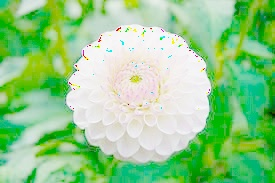
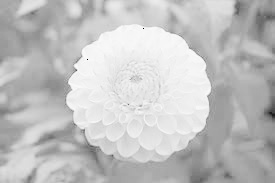
Added Morphological operation from scratch - CV

diff --git a/Computer-vision/08 - Morphological_Transformation/02-Morphological_Operation_From_Scratch.py b/Computer-vision/08 - Morphological_Transformation/02-Morphological_Operation_From_Scratch.py
@@ -1,0 +1,196 @@
+# import package
+import cv2
+import numpy as np
+import matplotlib.pyplot as plt
+ 
+
+# Erosion operation
+'''
+Condition
+1. If complete match then output = 1
+2. if partial match then output = 0
+3. if complete unmatch then output = 0
+'''
+
+def erosion(image,kernel):
+    row = image.shape[0] + kernel.shape[0] - 1
+    column = image.shape[1] + kernel.shape[0] - 1
+
+    erosion_image = np.zeros((row,column),dtype=np.uint8)
+    
+    for i in range(image.shape[0]):
+        for j in range(image.shape[1]):
+            erosion_image[i + np.int((kernel.shape[0]-1)/2),j + np.int(( kernel.shape[1]-1) / 2)] = image[i,j]
+
+    for i in range(image.shape[0]):
+        for j in range(image.shape[1]):
+
+            # Extract each patch from image     
+            patch = erosion_image[i : i + kernel.shape[0],j : j + kernel.shape[1]]
+
+            # element wise comparision
+            result = np.equal(patch,kernel)
+
+            # if all true then pixel value becomes 1 else it will 0
+            final = np.all(result==True)
+
+            if final:
+                image[i,j]=1
+            else:
+                image[i,j]=0
+
+    return image
+            
+# Dilation
+'''
+Condition
+1. If complete match then output = 1
+2. if partial match then output = 1
+3. if complete unmatch then output = 0
+'''
+
+def dilation(image,kernel):
+    row = image.shape[0] + kernel.shape[0] - 1
+    column = image.shape[1] + kernel.shape[0] - 1
+
+    dilation_image = np.zeros((row,column),dtype=np.uint8)
+    
+    for i in range(image.shape[0]):
+        for j in range(image.shape[1]):
+            dilation_image[i + np.int((kernel.shape[0]-1)/2),j + np.int(( kernel.shape[1]-1) / 2)] = image[i,j]
+
+    for i in range(image.shape[0]):
+        for j in range(image.shape[1]):
+
+            # Extract each patch from image     
+            patch = dilation_image[i : i + kernel.shape[0],j : j + kernel.shape[1]]
+
+            # element wise comparision
+            result = np.equal(patch,kernel)
+
+            # if all true then pixel value becomes 1 else it will 0
+            final = np.any(result==True)
+
+            if final:
+                image[i,j]=1
+            else:
+                image[i,j]=0
+
+    return image
+
+# Opening ( Erosion followed by dilation)
+def opening(image,kernel):
+    # first erosion
+    erode = erosion(image,kernel)
+
+    # second dilation
+    dilate = dilation(erode,kernel)
+
+    return dilate
+
+# Closing ( Dilation followed by erosion)
+def closing(image,kernel):
+    # first dilation
+    dilate = dilation(image,kernel)
+
+    # second dilation
+    erode = erosion(dilate,kernel)
+
+    return erode
+
+
+
+# Read Image (RGB Image - 3 channel)
+image = cv2.imread('../Images and videos/morph1.png')
+
+# Grayscale - 1 channel 
+gray = cv2.cvtColor(image,cv2.COLOR_BGR2GRAY)
+ 
+# Binary - either 0 pixel or 255 pixel (black or white)
+(thresh,binary) = cv2.threshold(gray, 127, 255, cv2.THRESH_BINARY)
+
+# Convert 0 pixel to 0 and 255 pixel to 1
+binary = binary/255.0
+
+binary_copy0 = binary.copy()
+binary_copy1 = binary.copy()
+binary_copy2 = binary.copy()
+binary_copy3 = binary.copy()
+
+# 5x5 - Kernel (filled with 1)
+kernel = np.ones((5,5),dtype=np.uint8)
+
+# Padding (Because after performing convolution output size of image gets reduced
+# so padding will insure that output size is equals to input size)
+
+erosion_image = erosion(binary_copy0,kernel)
+dilation_image = dilation(binary_copy1,kernel)
+
+
+# Opening ( Erosion followed by dilation )
+opening_image = opening(binary_copy2,kernel)
+
+# Closing ( Dilation followed by erosion)
+closing_image = closing(binary_copy3,kernel)
+
+print(gray.shape)
+print(gray.reshape(-1))
+print(np.max(thresh))
+print(np.min(binary))
+
+
+images = [image, erosion_image]
+titles = ['Original image', 'Erosion']
+
+for i in range(2):
+    plt.subplot(1,2,(i+1))
+    plt.imshow(images[i],'gray')
+    plt.xlabel(titles[i])
+
+plt.show()
+
+images = [image, dilation_image]
+titles = ['Original image', 'Dilation']
+
+for i in range(2):
+    plt.subplot(1,2,(i+1))
+    plt.imshow(images[i],'gray')
+    plt.xlabel(titles[i])
+
+plt.show()
+
+images = [image, opening_image]
+titles = ['Original image', 'Opening']
+
+for i in range(2):
+    plt.subplot(1,2,(i+1))
+    plt.imshow(images[i],'gray')
+    plt.xlabel(titles[i])
+
+plt.show()
+
+images = [image, closing_image]
+titles = ['Original image', 'Closing']
+
+for i in range(2):
+    plt.subplot(1,2,(i+1))
+    plt.imshow(images[i],'gray')
+    plt.xlabel(titles[i])
+
+plt.show()
+
+
+# Display image
+'''
+cv2.imshow('Original image',image)
+cv2.imshow('Gray',gray)
+cv2.imshow('binary',binary)
+
+cv2.imshow('erosion_image',erosion_image)
+cv2.imshow('dilation_image',dilation_image)
+cv2.imshow('Opening',opening_image)
+cv2.imshow('Closing',closing_image)
+'''
+
+cv2.waitKey(0)
+cv2.destroyAllWindows()

diff --git a/Computer-vision/08 - Morphological_Transformation/01-Morphological.py b/Computer-vision/08 - Morphological_Transformation/01-Morphological.py
@@ -1,11 +1,10 @@
 '''
-Morphological operations are broad set of operations in 
-image processing
+Morphological operations are broad set of operations in image processing
 
-Erosion - erodes boundaries of foreground object.
+Erosion - erodes boundaries of foreground object. Decrease the white region and increasing black region, enlarge the whole. 
 Application - removing white noises and detach joint objects 
 
-Dilation - opposite of erosion, generally erosion followed by dilation
+Dilation - opposite of erosion, increasing while region and decresing black region , fill the whole
 Application- joining breaking parts
 
 Opening - errosion followed by dilation
@@ -20,10 +19,37 @@ import cv2
 import numpy as np 
 import matplotlib.pyplot as plt
 
-img = cv2.imread('./images/morph1.png')
+img = cv2.imread('../Images and videos/morph1.png')
 
 kernel = np.ones((5,5), np.uint8)
-## Performing opening operation to remove small objects from image
+
+# Erosion
+erosion = cv2.erode(img,kernel,iterations = 1)
+
+images = [img, erosion]
+titles = ['Original', 'Erosion']
+
+for i in range(2):
+    plt.subplot(1,2,(i+1))
+    plt.imshow(images[i],'gray')
+    plt.xlabel(titles[i])
+
+plt.show()
+
+# Dilation
+dilation = cv2.dilate(img,kernel,iterations = 1)
+
+images = [img, dilation]
+titles = ['Original', 'dilation']
+
+for i in range(2):
+    plt.subplot(1,2,(i+1))
+    plt.imshow(images[i],'gray')
+    plt.xlabel(titles[i])
+
+plt.show()
+
+# Opening (Erosion followed by dilation) : Performing opening operation to remove small objects from image
 remove_small_objects = cv2.morphologyEx(img, cv2.MORPH_OPEN, kernel)
 
 images = [img, remove_small_objects]
@@ -36,9 +62,7 @@ for i in range(2):
 
 plt.show()
 
-## Small hole removal using closing operation
-
-img = cv2.imread('./images/morph2.png')
+# Closing (Dilation followed by erosion) : Small hole removal using closing operation
 modify_objects = cv2.morphologyEx(img, cv2.MORPH_CLOSE, kernel)
 
 images = [img, modify_objects]

diff --git a/Computer-vision/35 - Intensity transformation/Log_transformation.py b/Computer-vision/35 - Intensity transformation/Log_transformation.py
@@ -6,7 +6,10 @@ warnings.filterwarnings("ignore")
 # Open the image. 
 img = cv2.imread('../Images and Videos/flower.jpg') 
 
+gray = cv2.cvtColor(img, cv2.COLOR_BGR2GRAY)
+
 cv2.imshow('image',img)
+cv2.imshow('gray',gray)
 
 '''
 log transformation : S = c*log(1+r)
@@ -30,7 +33,7 @@ def log_transformation(img):
 
 
 print(img.shape)
-log_transformed_image = log_transformation(img)
+log_transformed_image = log_transformation(gray)
 
 cv2.imshow('log transformed',log_transformed_image)              
 # Save the output. 

diff --git a/Computer-vision/35 - Intensity transformation/Contrast_Streching.py b/Computer-vision/35 - Intensity transformation/Contrast_Streching.py
@@ -42,7 +42,8 @@ pixelVal_vec = np.vectorize(pixelVal)
 contrast_stretched = pixelVal_vec(gray, r1, s1, r2, s2) 
 
 print(np.min(contrast_stretched),np.max(contrast_stretched))
-# Save edited image. 
+# Save edited image.
+cv2.imshow('grayscale',gray)
 cv2.imshow('contrast_stretch.jpg',contrast_stretched)
 cv2.imwrite('contrast_stretch.jpg',contrast_stretched)
 
